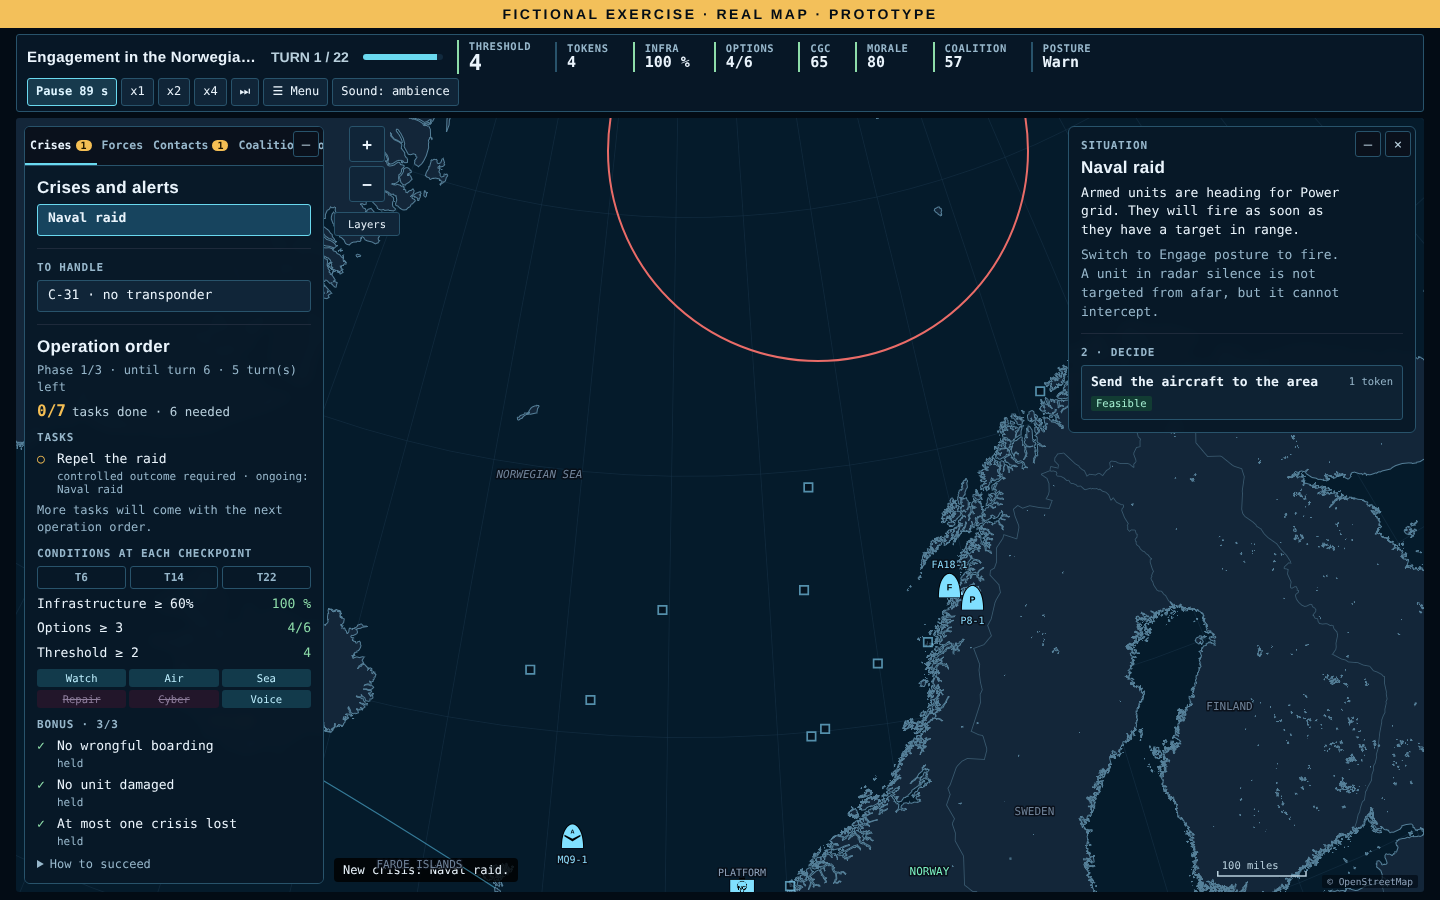
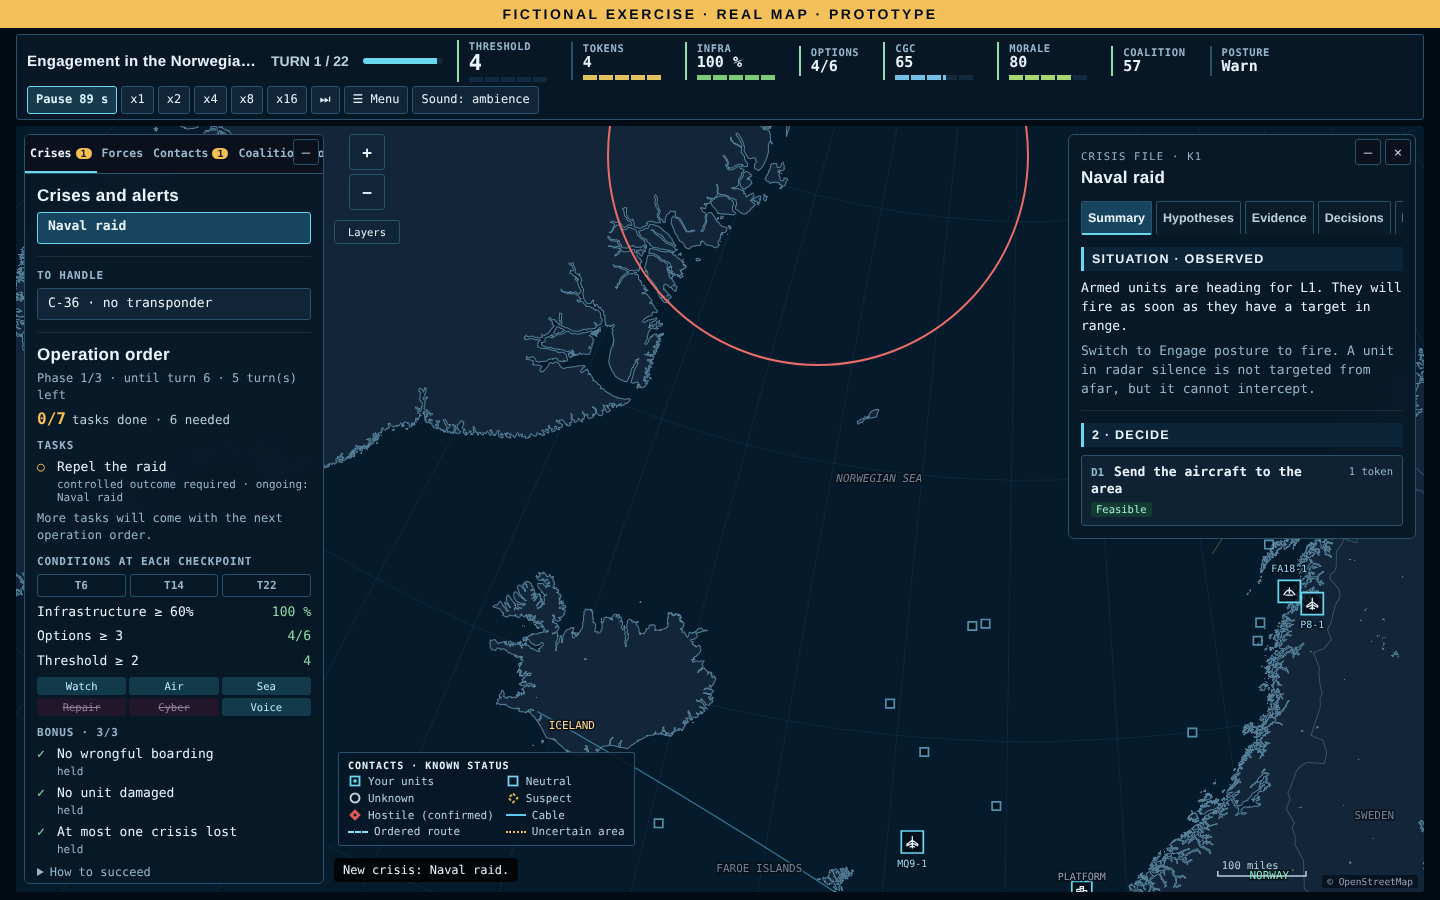
Version 34 : dynamique navale (hélicoptère embarqué, étapes de classification, formations, temps x8 et x16), onglets de domaine, unités terrestres, vitesses -30 %
Tests : banc d'essai (600 parties finies et reproductibles, 52 134 clics au hasard), 21 scripts d'interface sans erreur.
La référence passe à 82 % de réussite, au-dessus de la cible : voir CLAUDE.md 5.26.

Claude-Session: https://claude.ai/code/session_01XsJ7mRwaZgthoQnSZT4r1h

diff --git a/CLAUDE.md b/CLAUDE.md
@@ -686,7 +686,26 @@ Demande de Naully du 12 novembre 2026 : adopter des mécaniques de *Jane's Fleet
 
 **Corrigé au passage :** les onglets du dossier (5 au niveau Complet) élargissaient la page sur téléphone en anglais (`.dtabs`, défaut de la version 33).
 
-@@RES@@
+**Mesures du 12 novembre 2026, scripts seulement, niveau Complet, 2 parties par scénario (148 parties par stratégie, tutoriel exclu)**
+
+| Stratégie | Version 33 | Version 34 |
+|---|---|---|
+| Omniscient | 795 et 94 % | 797 et 95 % |
+| Référence | 728 et 74 % | 734 et 82 % |
+| Sans aucun tir | 713 et 68 % | 728 et 79 % |
+| Tir sans vérifier | 434 et 20 %, seuil 1 dans 52 % | 458 et 24 %, seuil 1 dans 47 % |
+| Saturation de messages | 293 et 2 % | 295 et 3 % |
+| Aucun ordre | 275 et 2 % | 274 et 3 % |
+| Aucune force | 190 et 0 % | 188 et 0 % |
+
+- **La référence passe à 82 %, nettement au-dessus de la cible de 50 à 70 %.** Causes probables, non isolées une à une : la preuve à vue gratuite, les unités terrestres ajoutées à 36 ordres de bataille, des navires adverses plus lents. Aucun réglage n'a été fait pour revenir dans la cible (décision 30).
+- Omniscient à 0 % sur `n1` en 2 parties, puis 6 réussites sur 6 sur un second tirage (`scr.js n1 6`) : effet d'échantillon. Aucun ordre réussit parfois `l11`, `c4`, `f2` et `n1` (défaut 31).
+- Invariants : 600 parties finies et reproductibles. Clics au hasard : 52 134, aucun blocage, aucun texte manquant, aucune erreur.
+- Bancs isolés (8 parties chacun) : hélicoptère, contact identifié 8 fois sur 8 et appareil toujours récupéré ; batterie seule près de l'objet visé par une salve, 1,25 coup reçu contre 6 sans défense ; peloton déjà sur le site, sécurisé sans délai contre 9 s pour un patrouilleur à distance ; navire fantôme rattrapé en 90 s pour 131 s sur zone (68 s pour 92 s en version 33).
+- Rythme (`pace2.js`, 12 scénarios × 2, niveau Simple) : 5,0 crises par partie, première crise à 71 s, 74 % du temps sans crise ouverte (5,2, 68 s et 71 % en version 33).
+- Conseil seul (`advbot.js 1`, 74 × 1) : 744 et 81 % au niveau Simple, 704 et 78 % au niveau Complet ; référence 775 et 82 %, puis 741 et 74 %. Le conseil seul reste presque aussi efficace que la référence (défaut 12).
+- Bilan « Décision ou chance ? » : référence 95 % de bons choix, hasard 77 %, aucun ordre 0 % ; calibrage 40 %, 67 % et 90 % annoncés pour 42 %, 67 % et 89 % observés.
+- Tests d'interface : `uiv34`, `uidq`, `ui5`, `uim`, `uim 844`, `uim2`, `uimenu`, `uig`, `uid`, `uih`, `uigrp`, `uiob`, `uip`, `uiqx`, `uit fr 390`, `uit en 1440`, `uis`, `uiq`, `uiw`, `uia` et `uic` sans erreur ni texte manquant.
 
 **Non vérifié :** aucun vrai joueur. Les scripts n'utilisent ni l'hélicoptère (sauf pour les bouées, sans avion), ni les formations, ni les sous-menus : leur intérêt en jeu n'est pas mesuré. La batterie et le peloton sont mesurés sur un banc isolé de 8 parties. Le ressenti du ralentissement et du temps × 8 et × 16 n'est pas observé.
 
@@ -809,6 +828,8 @@ Ces commandes sont longues : lance-les en arrière-plan quand l'environnement le
 | `deck` | Valeur des cartes sur des decks au hasard | Aucune carte indispensable ni inutile partout |
 | `monkey` | Clics au hasard dans les deux langues | Aucune erreur page, aucun texte manquant, bilan toujours atteint |
 | `dq` | Bilan « Décision ou chance ? » sur cinq stratégies | Réussite annoncée proche de l'observée, tirages recopiés exacts, le hasard fait plus de choix fragiles que la référence |
+
+**Résultats du 12 novembre 2026, version 34 (dynamique navale, domaines, unités terrestres), niveau Complet, 2 parties par scénario :** omniscient 797 et 95 %, référence 734 et 82 %, sans aucun tir 728 et 79 %, tir sans vérifier 458 et 24 % avec 47 % de seuil 1, saturation 295 et 3 %, aucun ordre 274 et 3 %, aucune force 188 et 0 %. **La référence dépasse nettement la cible de 50 à 70 %** (74 % en version 33). Invariants : 600 parties finies et reproductibles. Clics au hasard : 52 134, aucun blocage, aucun texte manquant, aucune erreur. Détail, bancs isolés et tests d'interface : section 5.26.
 
 **Résultats du 10 novembre 2026, version 33 (charte complète) puis branche `dq-bilan-decision-chance`, niveau Complet, 2 parties par scénario :** omniscient 795 et 94 %, référence 728 et 74 %, tir sans vérifier 434 et 20 %, aucun ordre 275 et 2 % (moyennes par partie, tutoriel exclu). Les 2 100 parties du volet `exploit` donnent le même score et la même issue en version 32, en version 33 et avec le bilan « Décision ou chance ? » : ni la charte ni ce bilan ne touchent au moteur. Invariants : 600 parties finies et reproductibles. Clics au hasard : 52 414, aucun blocage, aucun texte manquant, aucune erreur. `stress.js dq` : voir 5.25. Tests d'interface sur la branche du bilan : `uidq`, `ui5`, `uim`, `uim 844`, `uim2`, `uimenu`, `uig`, `uid`, `uih`, `uigrp`, `uiob`, `uip`, `uiqx`, `uit fr 390`, `uit en 1440`, `uis`, `uiq`, `uiw`, `uia` et `uic` sans erreur ni texte manquant.
 
